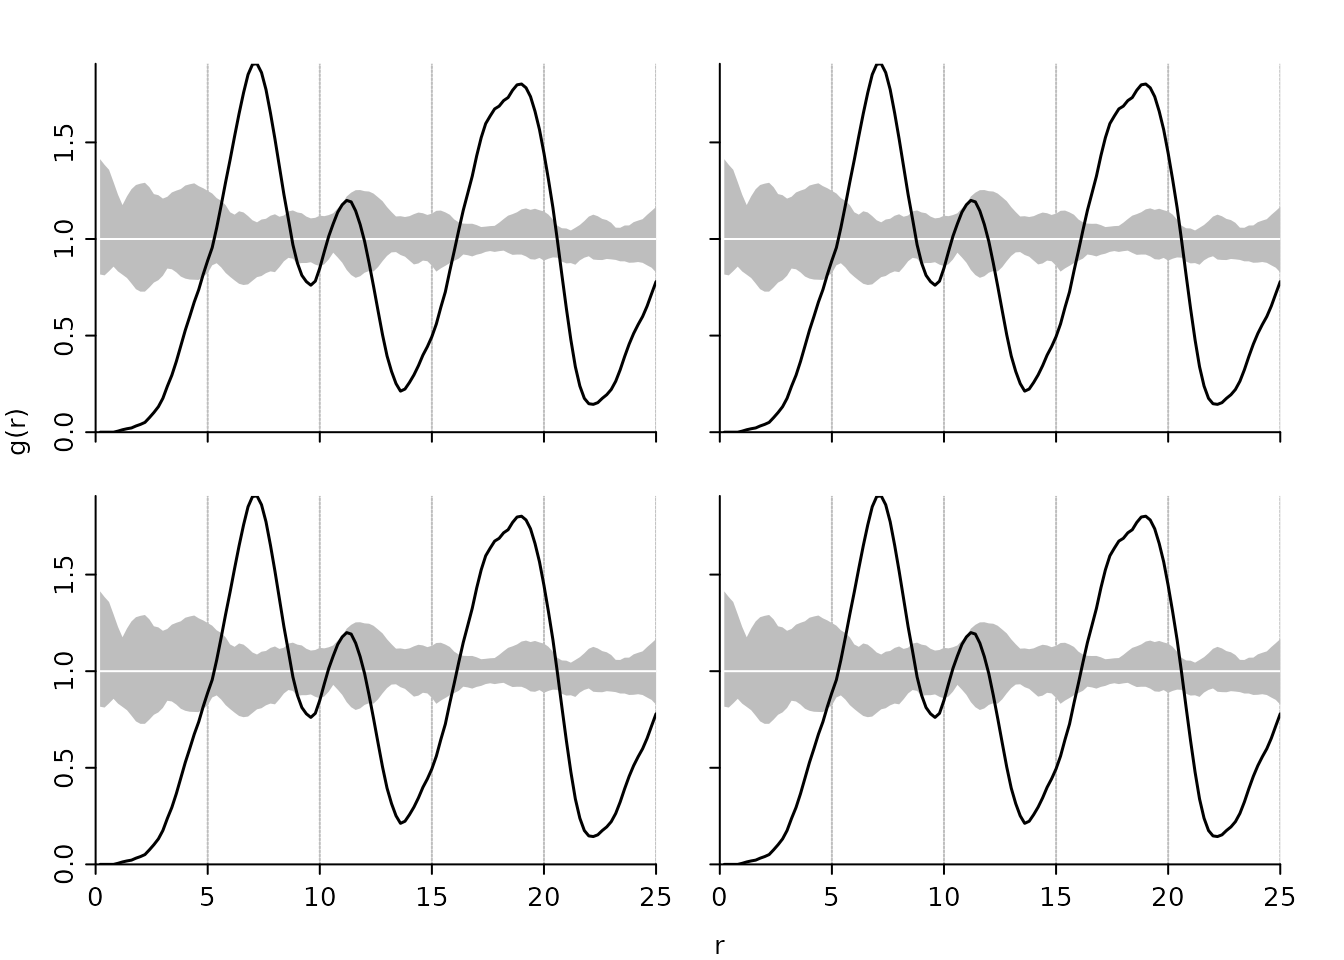
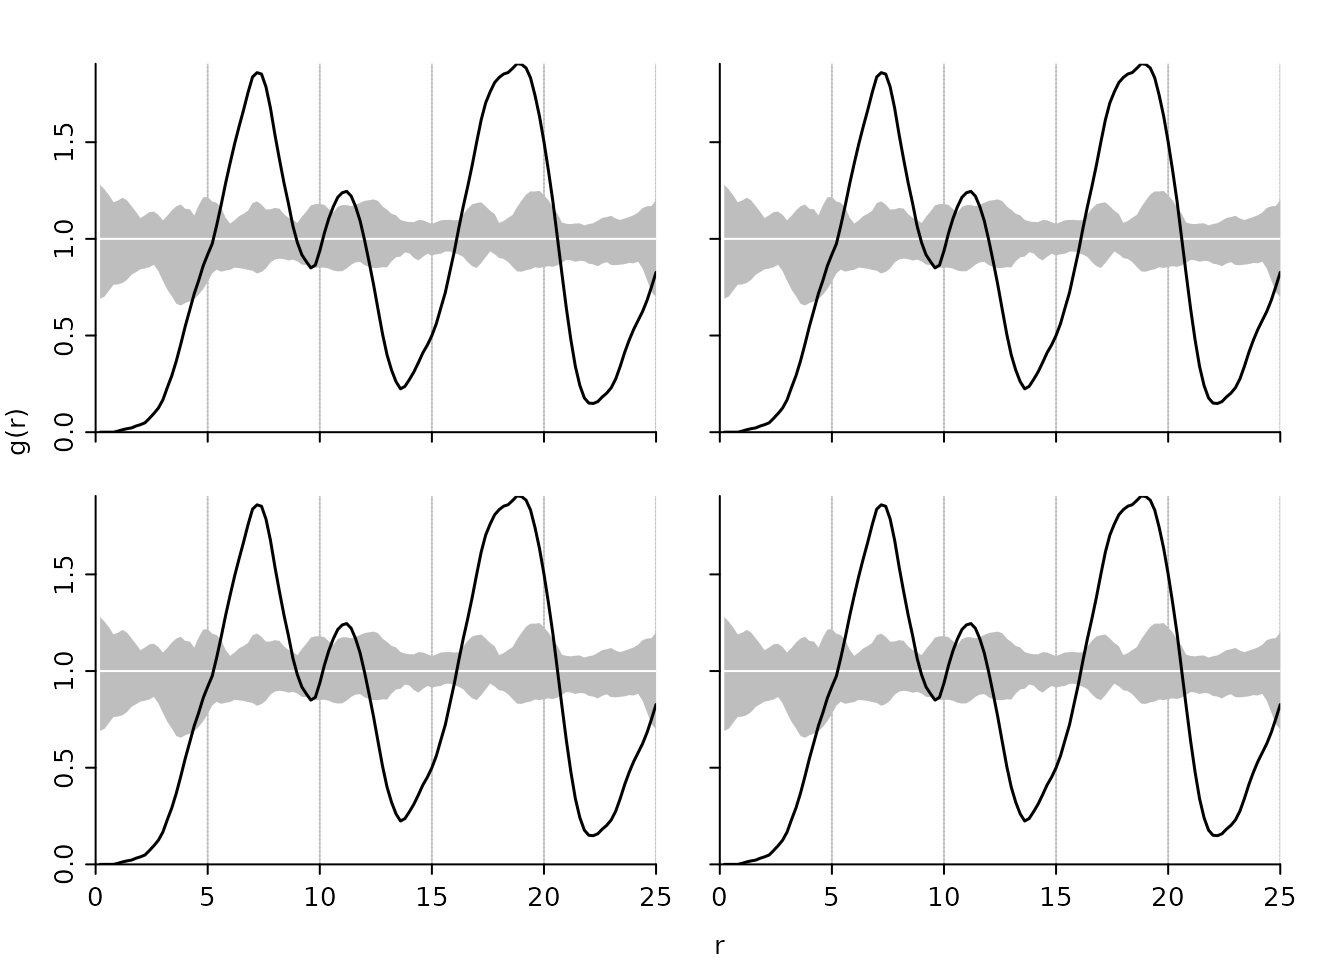
Built site for apcf: 0.1.7.904@0ae23f2

diff --git a/articles/intro.html b/articles/intro.html
@@ -136,12 +136,12 @@
 <span class="co">## Significance level of pointwise Monte Carlo test: 0.2</span>
 <span class="co">## </span>
 <span class="co">##     r           g       lwr      upr</span>
-<span class="co">## 1 0.2 0.000000000 0.8161831 1.413362</span>
-<span class="co">## 2 0.4 0.000000000 0.8117168 1.383910</span>
-<span class="co">## 3 0.6 0.000000000 0.8333256 1.358265</span>
-<span class="co">## 4 0.8 0.000000000 0.8569484 1.294719</span>
-<span class="co">## 5 1.0 0.005611187 0.8319216 1.229191</span>
-<span class="co">## 6 1.2 0.012635139 0.8152010 1.175675</span></code></pre></div>
+<span class="co">## 1 0.2 0.000000000 0.6902879 1.279828</span>
+<span class="co">## 2 0.4 0.000000000 0.7015175 1.255981</span>
+<span class="co">## 3 0.6 0.000000000 0.7321890 1.225309</span>
+<span class="co">## 4 0.8 0.000000000 0.7623564 1.189313</span>
+<span class="co">## 5 1.0 0.005673728 0.7643580 1.198346</span>
+<span class="co">## 6 1.2 0.012737299 0.7716641 1.212853</span></code></pre></div>
 </div>
 <div class="section level2">
 <h2 id="plotting-the-pcf">Plotting the PCF<a class="anchor" aria-label="anchor" href="#plotting-the-pcf"></a>
